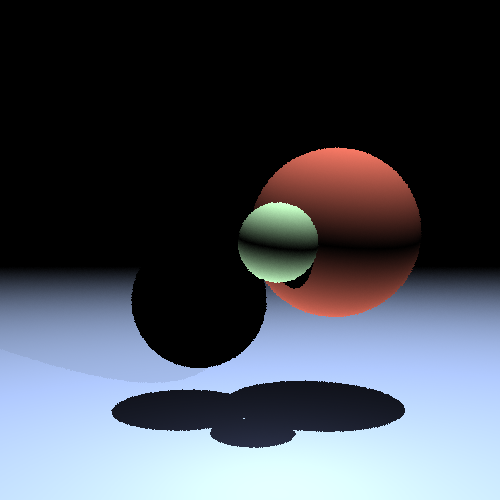
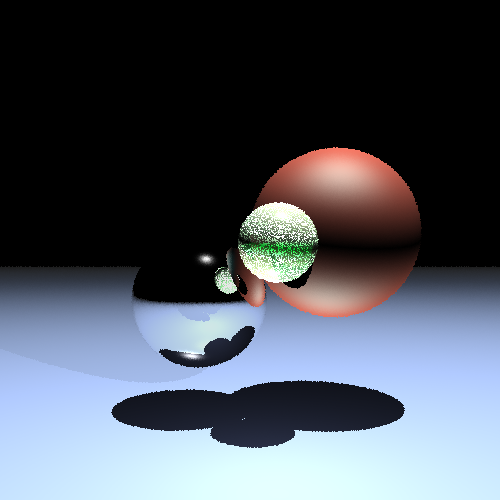
add to soft shadow

Changed region(s): [[0.24, 0.3, 0.78, 0.75], [0.81, 0.51, 1.0, 0.57], [0.0, 0.51, 0.27, 0.54]]

diff --git a/src/Objects/Light.java b/src/Objects/Light.java
@@ -131,7 +131,9 @@ public class Light {
 				boolean isInterfered = false;
 				for (Surface surface1 : scene.getSurfaces())
 				{
-					if ( surface1.findClosestIntesectionWithRay(rayToLight) != null)
+					Point p = surface1.findClosestIntesectionWithRay(ray);
+					
+					if ( p != null && p.FindDistanceFromPoint(point) != 0 )
 					{
 						counter++;
 						break;
